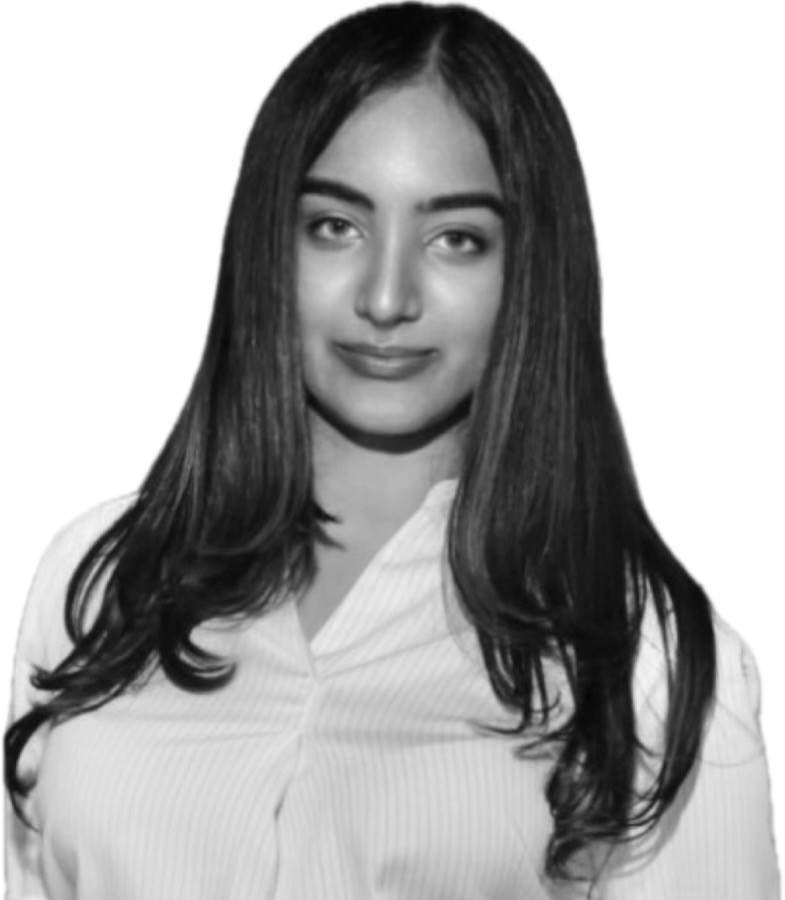
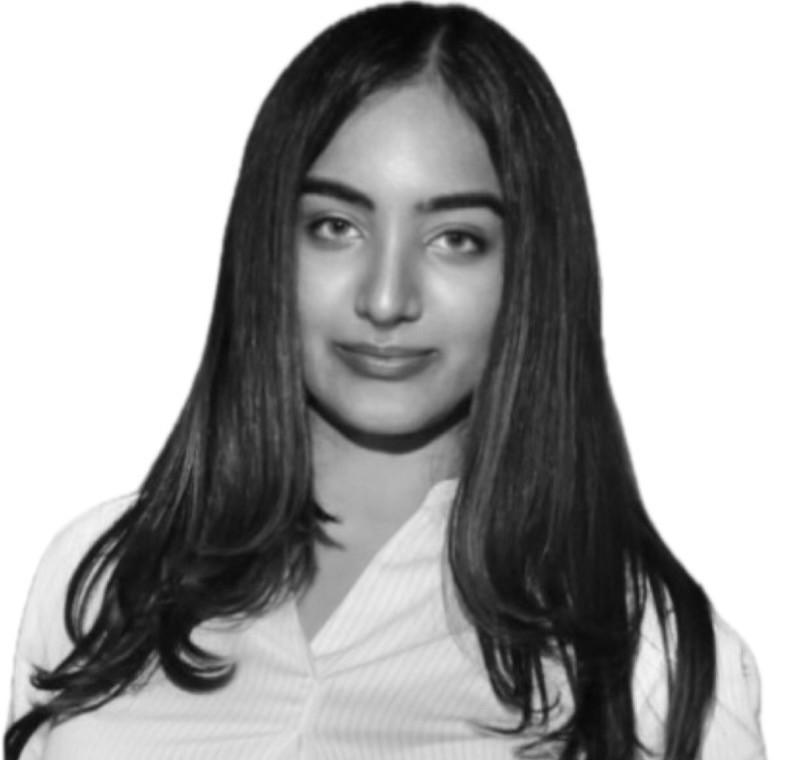
Home: crop headshot at the collar, larger 05 on the left
Claude-Session: https://claude.ai/code/session_01GPL7Ffu7zzsrcE2Dp27eoS

diff --git a/index.html b/index.html
@@ -17,11 +17,11 @@
     </div>
 
     <header class="hero">
-      <img class="headshot" src="assets/headshot.jpg" alt="Samaira Banga" />
       <div class="hero-stat">
         <div class="big-number">05</div>
         <div class="label">Selected projects</div>
       </div>
+      <img class="headshot" src="assets/headshot.jpg" alt="Samaira Banga" />
     </header>
 
     <h1 class="name">Samaira Banga</h1>

diff --git a/css/style.css b/css/style.css
@@ -113,7 +113,7 @@ ul { list-style: none; margin: 0; padding: 0; }
 
 .big-number {
   font-family: var(--press);
-  font-size: clamp(4.5rem, 18vw, 8rem);
+  font-size: clamp(6rem, 24vw, 10.5rem);
   line-height: 0.9;
   margin-bottom: 18px;
 }
